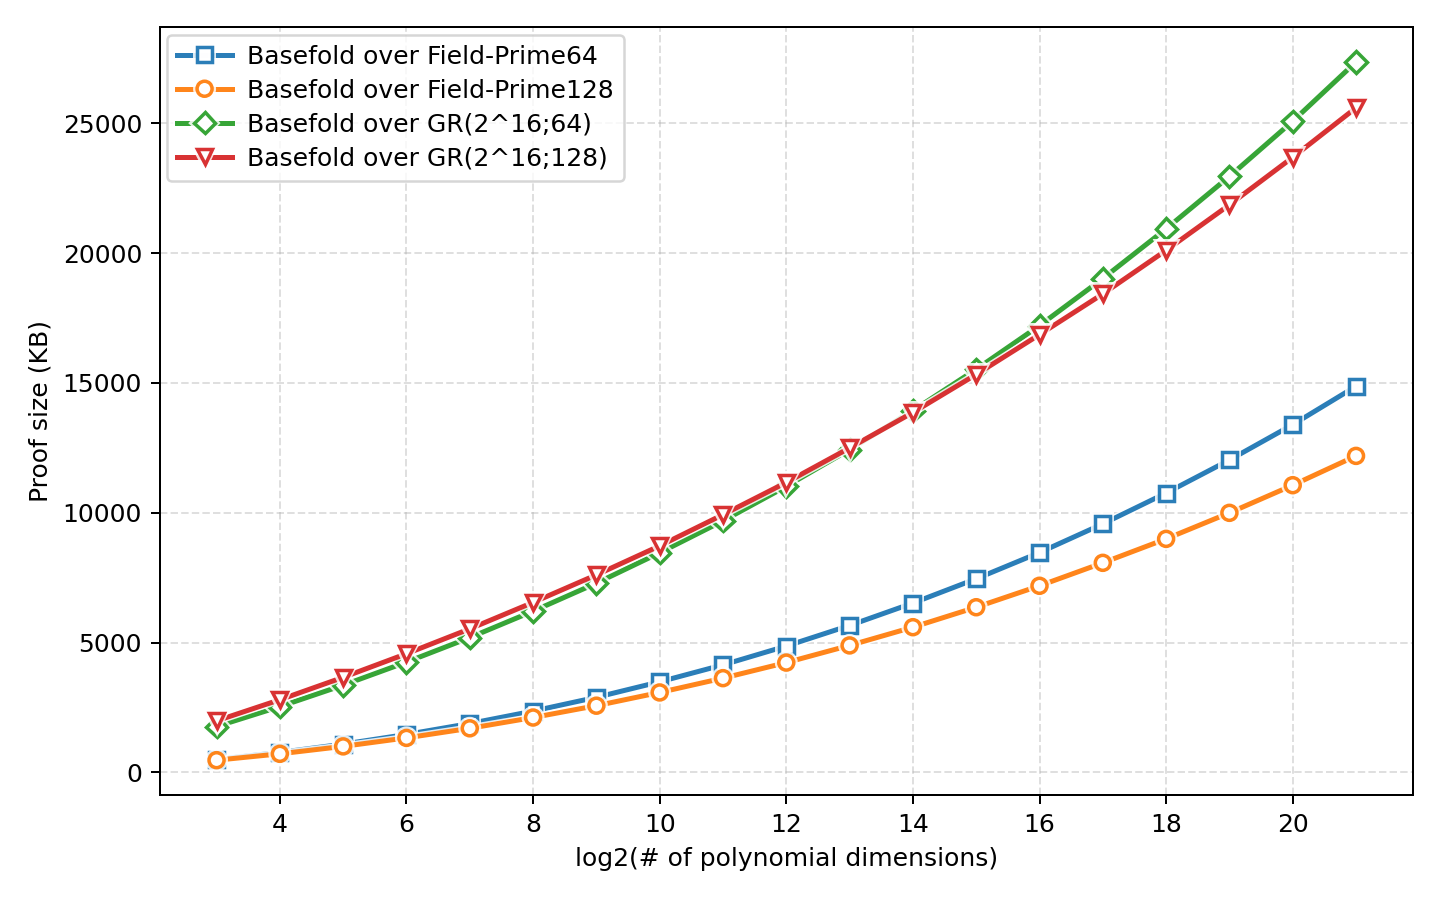
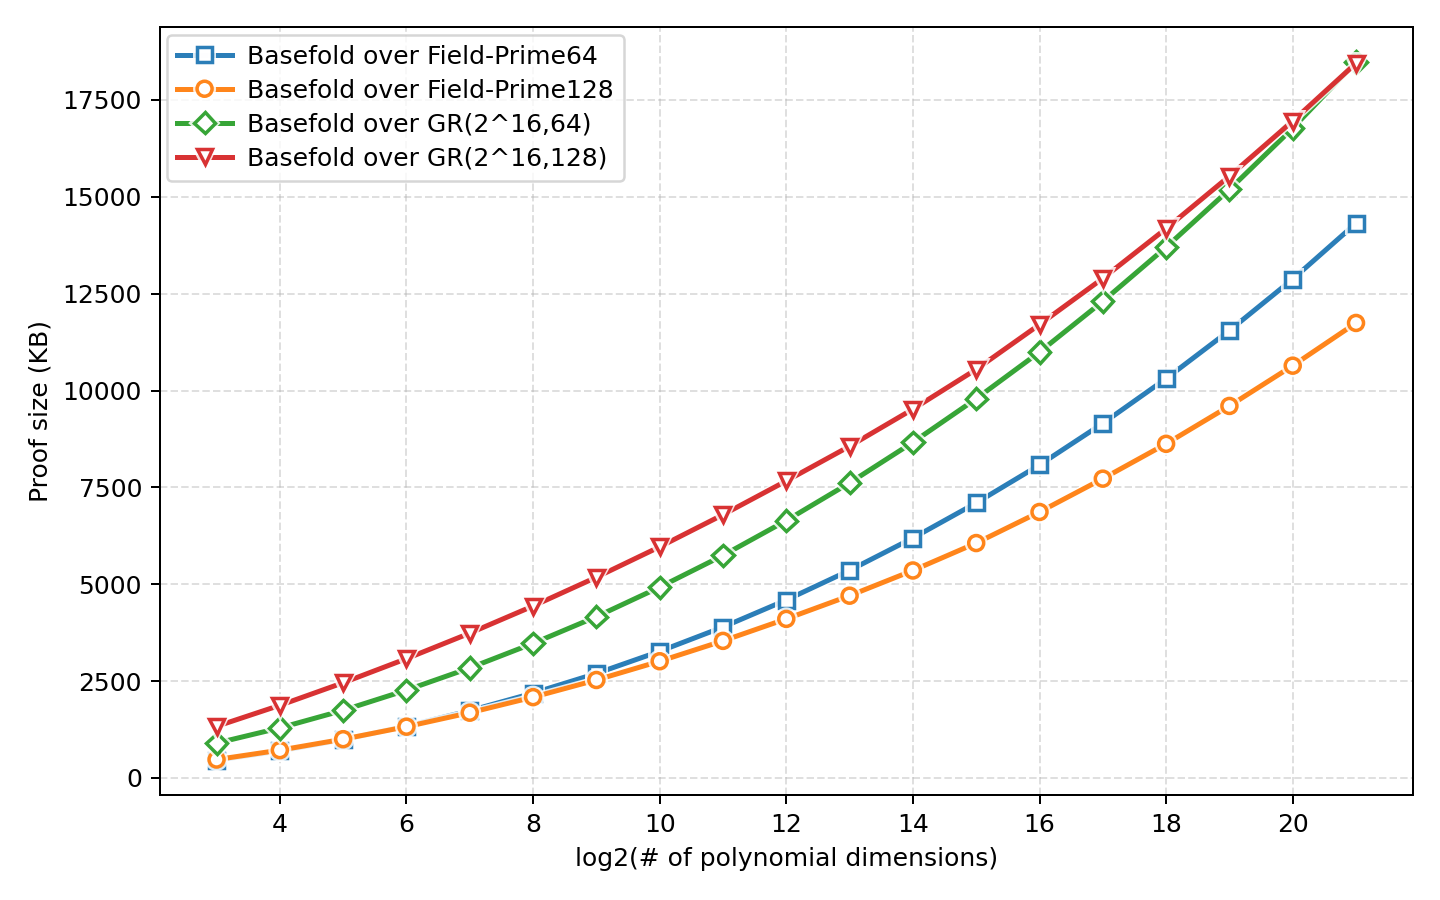
feat: Enhance GR notation normalization in benchmark plotting script

diff --git a/scripts/plot_benchmark_results.py b/scripts/plot_benchmark_results.py
@@ -80,10 +80,22 @@ _EXT_CHALLENGE_MARKER_RE = re.compile(
     r"\s*\(\s*ext(?:ension)?[- ]challenge\s*\)\s*",
     flags=re.IGNORECASE,
 )
+_GR_NOTATION_RE = re.compile(r"GR\(([^()]+)\)")
 
 
 def _strip_ext_challenge_marker(label: str) -> str:
     return _EXT_CHALLENGE_MARKER_RE.sub("", label).strip()
+
+
+def _normalize_gr_notation(label: str) -> str:
+    def _replace(match: re.Match[str]) -> str:
+        inner = match.group(1)
+        if ";" not in inner:
+            return match.group(0)
+        parts = [part.strip() for part in inner.split(";")]
+        return f"GR({','.join(parts)})"
+
+    return _GR_NOTATION_RE.sub(_replace, label)
 
 
 def _series_label(csv_path: Path, labels: set[str]) -> str:
@@ -93,6 +105,7 @@ def _series_label(csv_path: Path, labels: set[str]) -> str:
         raw_label = csv_path.stem
 
     raw_label = _strip_ext_challenge_marker(raw_label)
+    raw_label = _normalize_gr_notation(raw_label)
     lower_label = raw_label.lower()
     if "fri-based" in lower_label or "ligero-based" in lower_label:
         return raw_label
